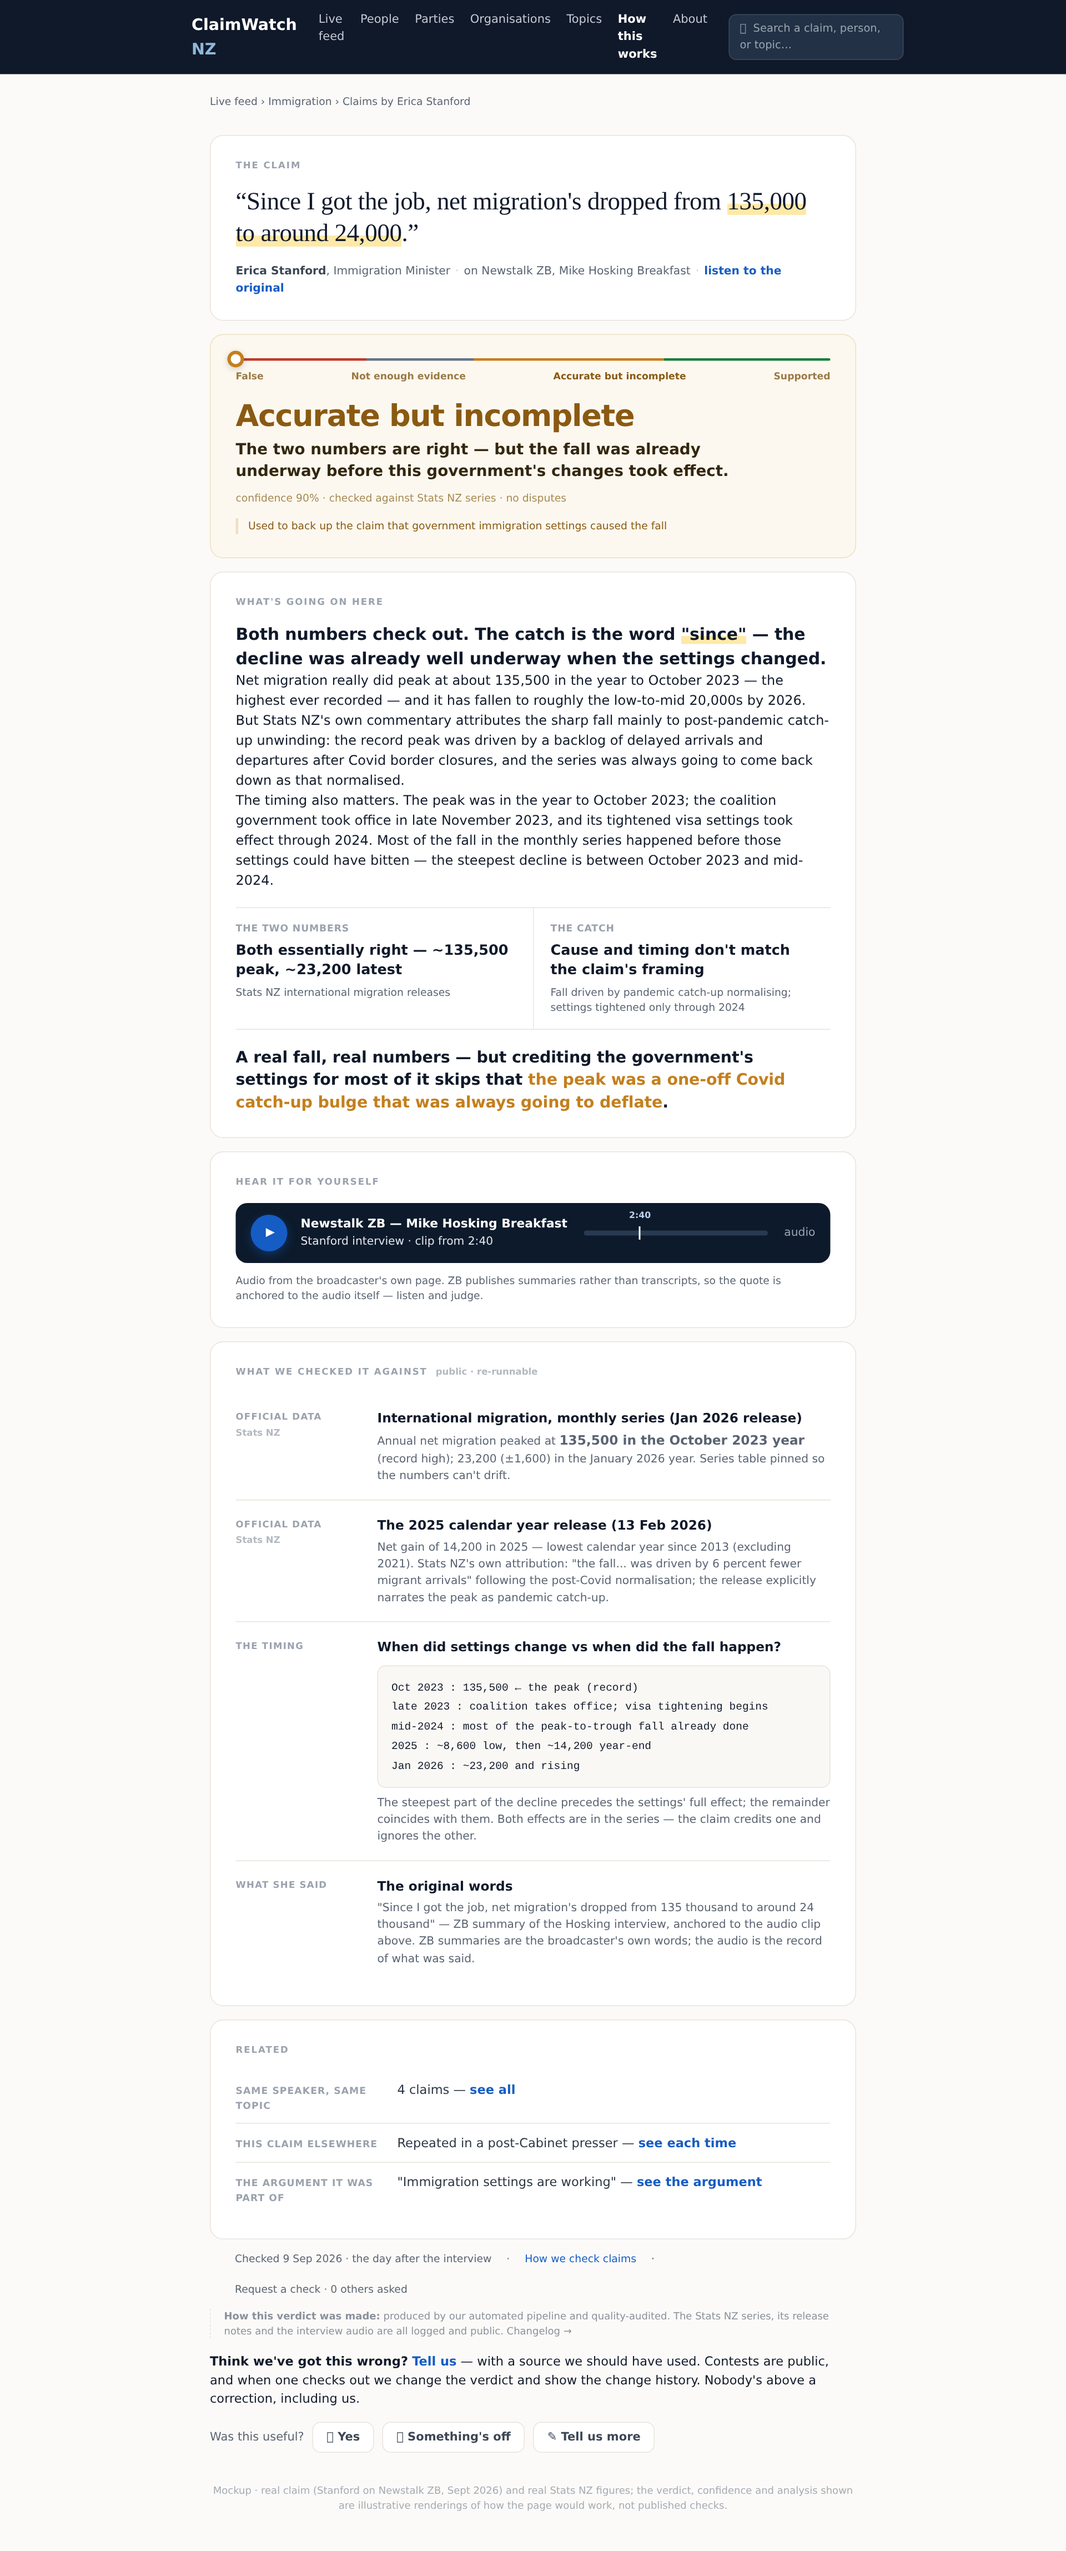
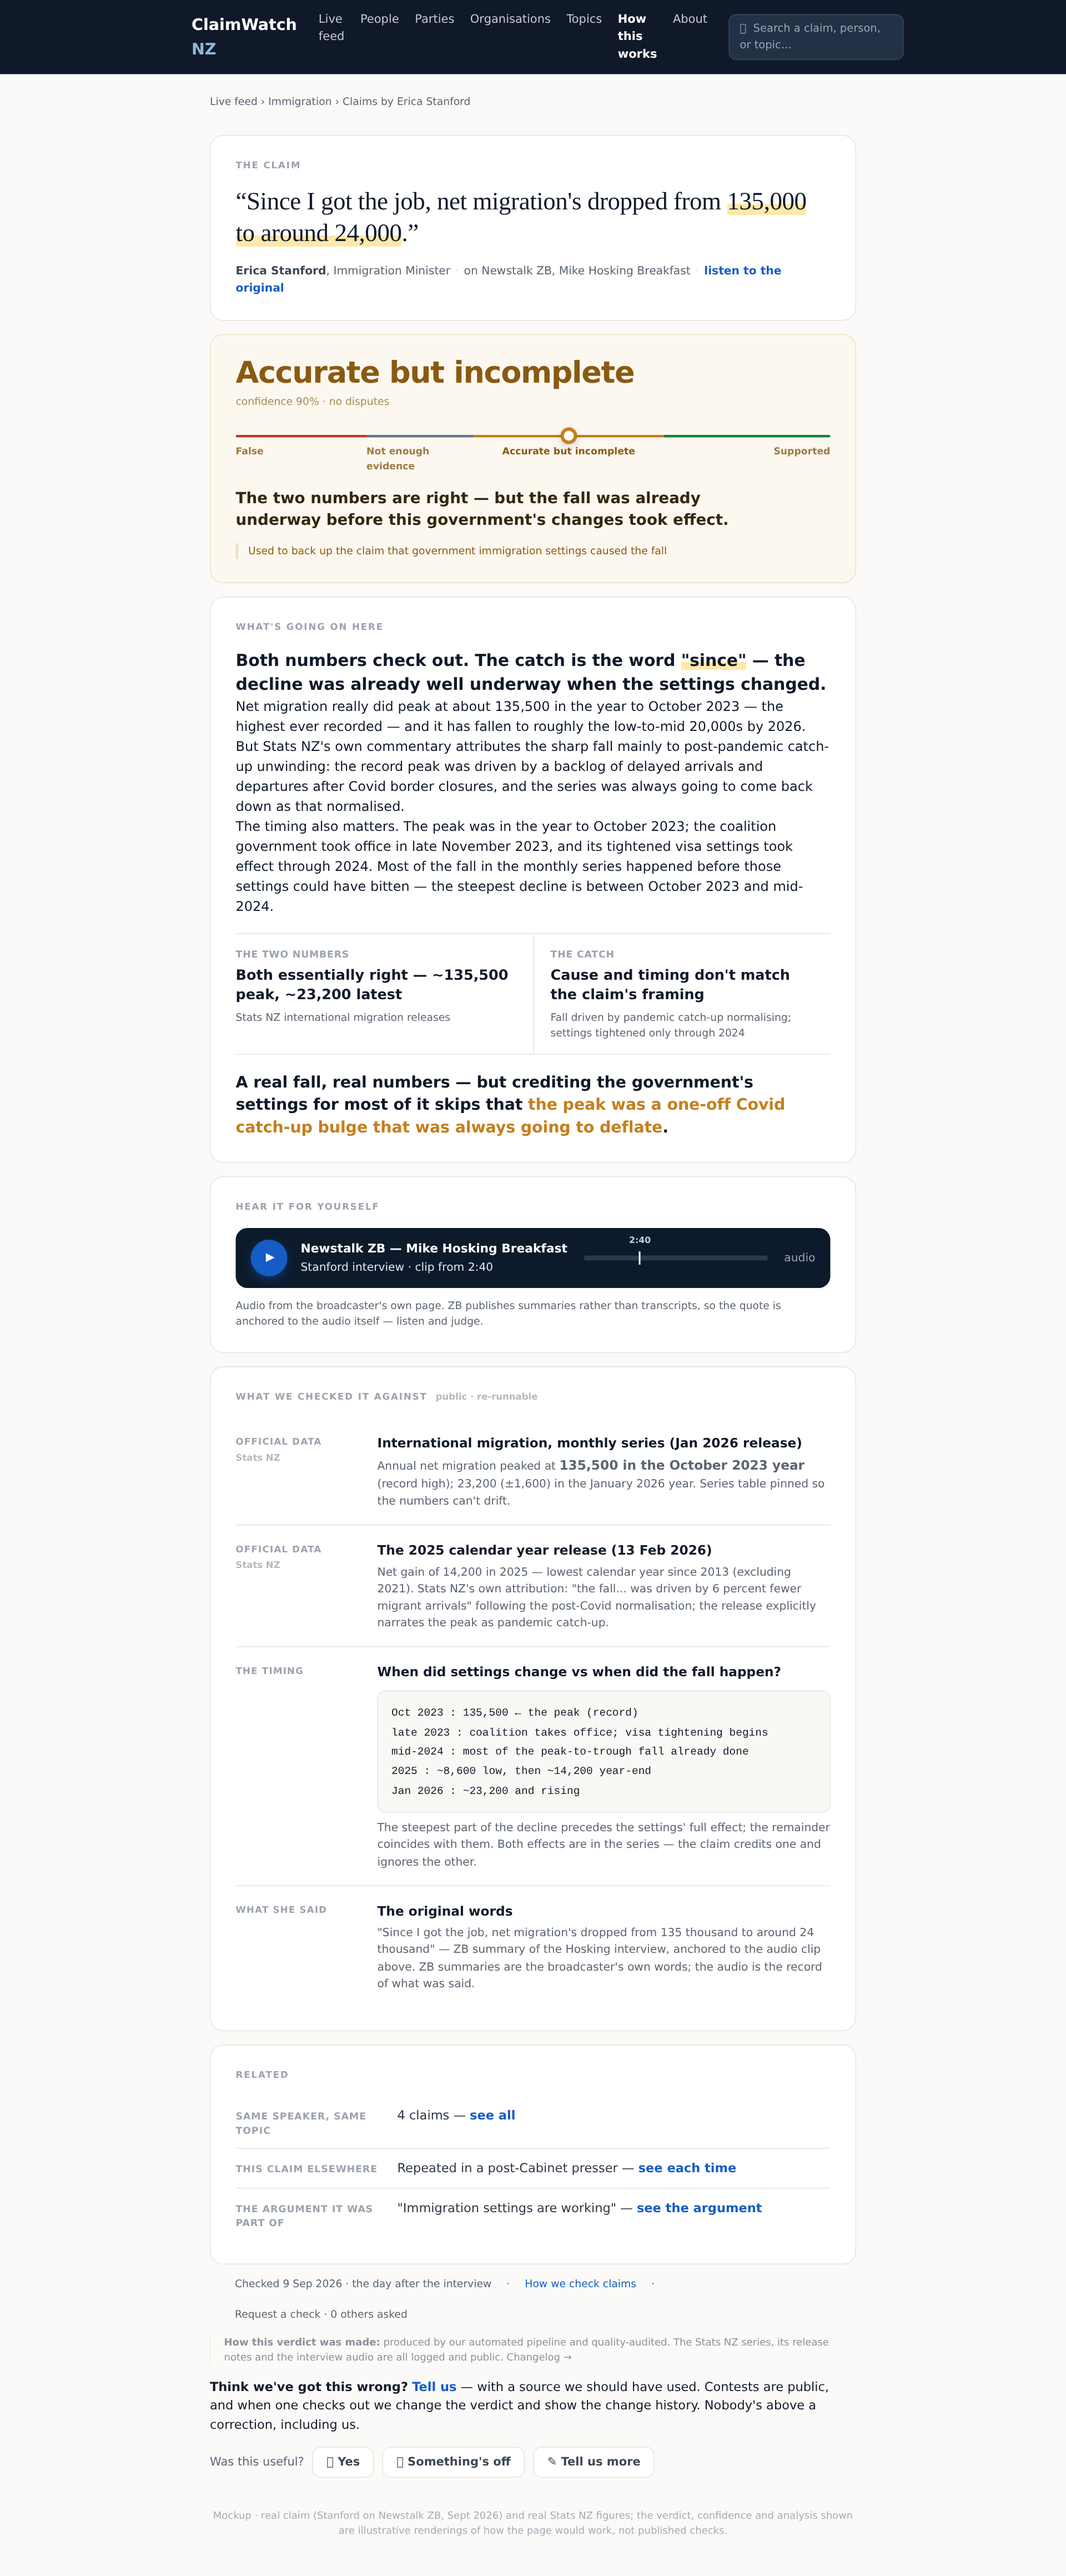
docs(mockups): verdict card order fixed — title first, spectrum below with correctly placed pin
Per Bradley: spectrum graphic must be BELOW the verdict title, and
the pin must sit at the position indicating the correct verdict.

verdict card now reads top-to-bottom:
1. verdict title 'Accurate but incomplete' (38px, top of card)
2. confidence line (demoted, small)
3. spectrum: gradient rule (red/grey/amber/green) with the white
   pin CENTRED inside the amber segment - segments are
   False 0-22% / NEI 22-40% / Incomplete 40-72% / Supported
   72-100%, pin at 56% = middle of the incomplete segment,
   previously it sat at 63% drifting toward the boundary
4. labels row widths aligned to the segments (22/18/32/28) so
   each label sits under its own segment; highlighted label
   centred under its segment
5. plain-language answer, then deploy note

Pin position is now data-driven in principle: left% = segment
midpoint, which maps 1:1 to the verdict class - the same pin
positioning function serves any verdict (False -> 11%, NEI ->
31%, Incomplete -> 56%, Supported -> 86%)

Vision-verified via cropped card detail shot

diff --git a/docs/mockups/claim-page-stat.html b/docs/mockups/claim-page-stat.html
@@ -35,14 +35,21 @@
 
   /* ===== 2 · VERDICT ===== */
   .verdictcard{background:#fdf8ef;border-color:#eddfc2}
-  .vrule{height:3px;border-radius:2px;background:linear-gradient(90deg,var(--v-ref) 0%,var(--v-ref) 22%,var(--v-nei) 22%,var(--v-nei) 40%,var(--v-inc) 40%,var(--v-inc) 72%,var(--v-sup) 72%,var(--v-sup) 100%);position:relative}
-  .vpin{position:absolute;top:-9px;width:20px;height:20px;margin-left:-10px;border-radius:50%;background:#fff;border:4px solid var(--v-inc);box-shadow:0 2px 8px rgba(0,0,0,.18)}
-  .vlabels{display:flex;justify-content:space-between;font-size:11.5px;color:#9b7a45;margin-top:10px;font-weight:600}
-  .vlabels .here{color:#8a5a12;font-weight:800}
-  .vword{margin-top:22px;font-size:36px;font-weight:800;letter-spacing:-.025em;line-height:1.02;color:#8a5a12}
+  /* verdict title FIRST (top of card), spectrum BELOW it */
+  .vword{font-size:36px;font-weight:800;letter-spacing:-.025em;line-height:1.02;color:#8a5a12}
   .vplain{margin-top:8px;font-size:18.5px;line-height:1.42;font-weight:600;color:#33270f;max-width:640px}
   .vmeta{margin-top:10px;font-size:12.5px;color:#a58a55}
   .deploy{margin-top:14px;font-size:12.5px;color:#8a5a12;border-left:3px solid #eddfc2;padding-left:12px}
+  /* spectrum sits under the title, above the plain answer */
+  .spectrum{margin-top:22px;position:relative;padding-top:9px}
+  .vrule{height:3px;border-radius:2px;background:linear-gradient(90deg,var(--v-ref) 0%,var(--v-ref) 22%,var(--v-nei) 22%,var(--v-nei) 40%,var(--v-inc) 40%,var(--v-inc) 72%,var(--v-sup) 72%,var(--v-sup) 100%)}
+  /* pin centred inside the 'incomplete' segment (40%–72% → mid ≈ 56%) */
+  .vpin{position:absolute;top:0;left:56%;width:20px;height:20px;margin-left:-10px;border-radius:50%;background:#fff;border:4px solid var(--v-inc);box-shadow:0 2px 8px rgba(0,0,0,.18)}
+  .vlabels{display:flex;font-size:11.5px;color:#9b7a45;margin-top:8px;font-weight:600}
+  .vlabels span:nth-child(1){width:22%}
+  .vlabels span:nth-child(2){width:18%}
+  .vlabels span:nth-child(3){width:32%}
+  .vlabels span:nth-child(4){width:28%;text-align:right}
 
   /* ===== 3 · WHAT'S GOING ON ===== */
   .lead{font-size:20px;font-weight:700;line-height:1.45;letter-spacing:-.005em}
@@ -114,11 +121,14 @@
 
   <!-- 2 · VERDICT CARD -->
   <div class="card verdictcard">
-    <div class="vrule"><span class="vpin"></span></div>
-    <div class="vlabels"><span>False</span><span>Not enough evidence</span><span class="here">Accurate but incomplete</span><span>Supported</span></div>
     <div class="vword">Accurate but incomplete</div>
-    <div class="vplain">The two numbers are right — but the fall was already underway before this government's changes took effect.</div>
-    <div class="vmeta">confidence 90% · checked against Stats NZ series · no disputes</div>
+    <div class="vmeta" style="margin-top:6px">confidence 90% · no disputes</div>
+    <div class="spectrum">
+      <span class="vpin"></span>
+      <div class="vrule"></div>
+      <div class="vlabels"><span>False</span><span>Not enough evidence</span><span style="color:#8a5a12;font-weight:800;text-align:center">Accurate but incomplete</span><span>Supported</span></div>
+    </div>
+    <div class="vplain" style="margin-top:18px">The two numbers are right — but the fall was already underway before this government's changes took effect.</div>
     <div class="deploy">Used to back up the claim that government immigration settings caused the fall</div>
   </div>
 
